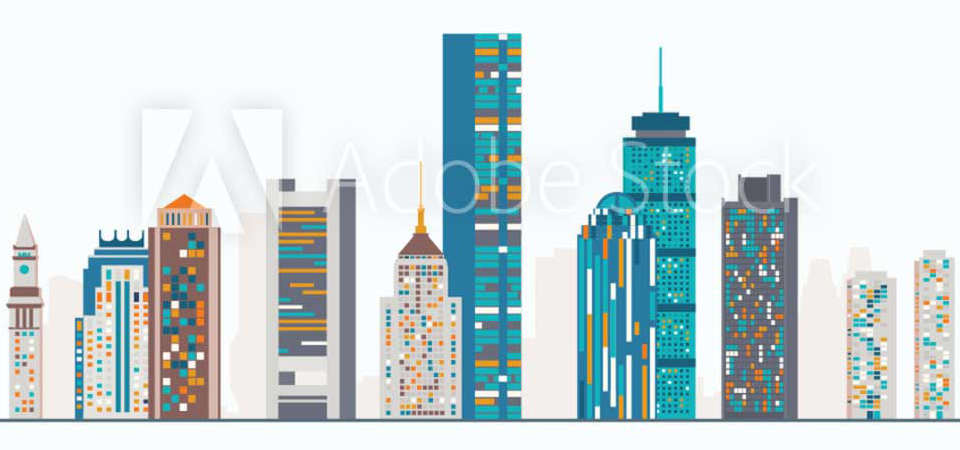
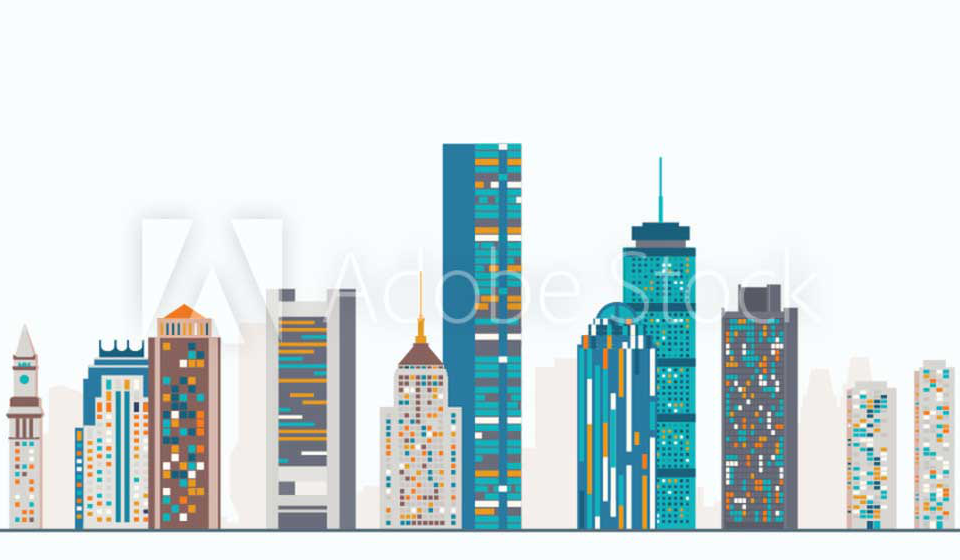
unit 8 updates

Changed region(s): [[0.0, 0.0622, 1.0, 0.9644]]

diff --git a/unit_8/css/style.css b/unit_8/css/style.css
@@ -155,7 +155,9 @@ figcaption {
 }
 .icon-bar {
 	background: white;
-	opacity: 0.75;
+/*	opacity: 0.75;
+*/	width: 45%;
+	float: right;
 }
 .icon-column {
     background-color: #f5f5f5;
@@ -177,7 +179,7 @@ figcaption {
 }
 #slogan {
 	font-family: "Futura", "Trebuchet MS", "Didact Gothic"; 
-    color: #FFF;
+    color: orange;
     font-size: 35px;
     font-weight: 100;
     text-align: right;
@@ -191,9 +193,15 @@ figcaption {
 	padding: 70px;
     margin-bottom: 30px;
     box-shadow: 1px 1px 10px #999;	
-/*    background: url("https://bostonma.github.io/unit_8/images/stockidea1.png");
-*/    background: url("https://bostonma.github.io/unit_8/images/AdobeStock_87172684_WM.png");
+    /*background: url("https://bostonma.github.io/unit_8/images/stockidea1.png");*/
+    background: url("https://bostonma.github.io/unit_8/images/AdobeStock_87172684_WM.png");
+    opacity: 0.5;
 }
+/*#skyline-image {
+	float: left;
+	width: 40%;
+	opacity: .5;
+}*/
 #clickablemap {
     background-color: #fff;
     padding: 30px;

diff --git a/unit_8/index.html b/unit_8/index.html
@@ -24,6 +24,11 @@
 </header>
 	
 	<section id="slogan-with-icon-bar" class="clearfix">
+		
+
+<!-- 		<img id="skyline-image" src="https://bostonma.github.io/unit_8/images/AdobeStock_87172684_WM.png"> -->
+		
+
 		<div id="slogan">Explore Boston neighborhoods<br>using <span>interactive</span> walking routes
 		</div>
 		<div style="clear:both" class="icon-bar">
